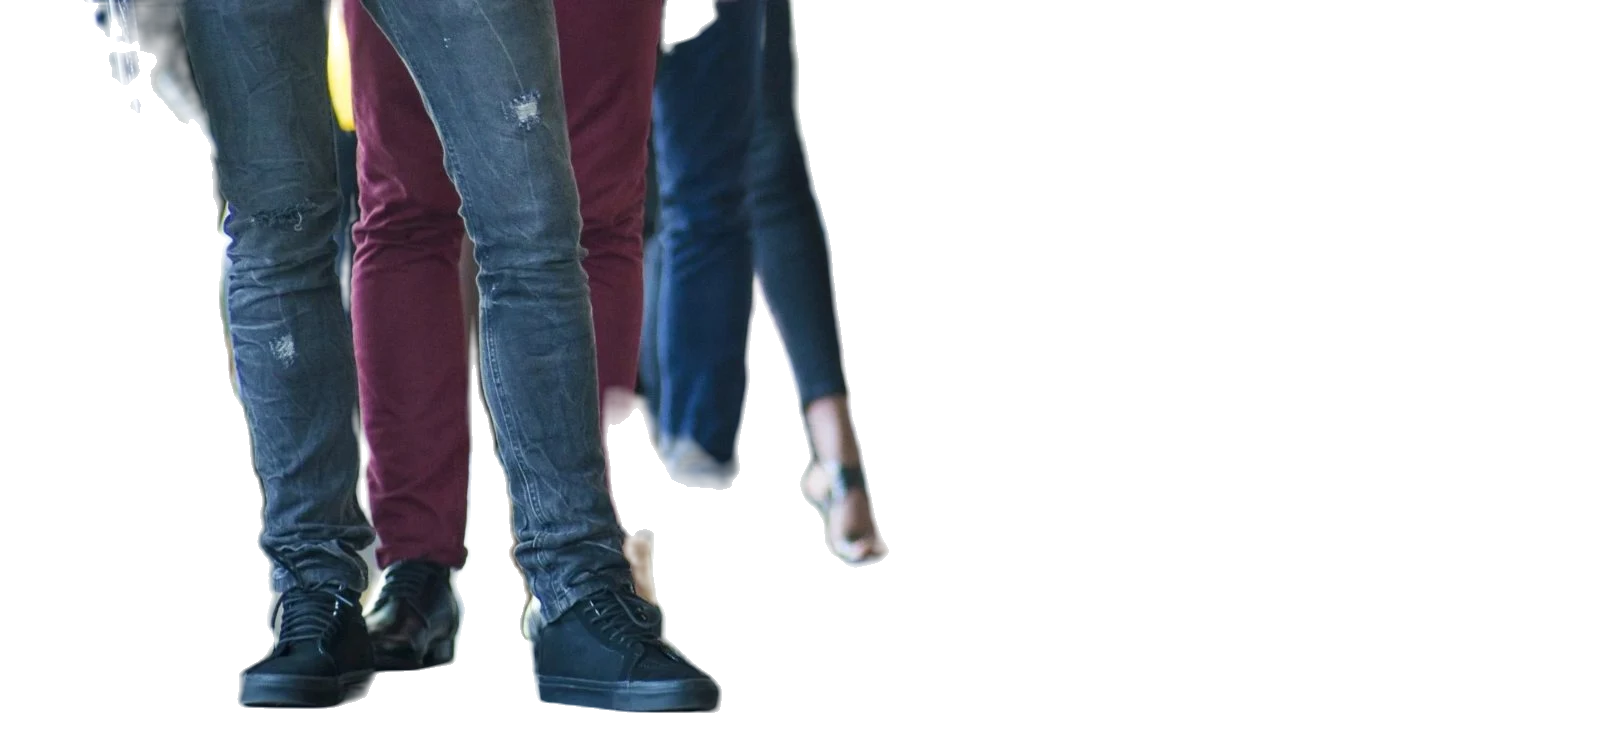
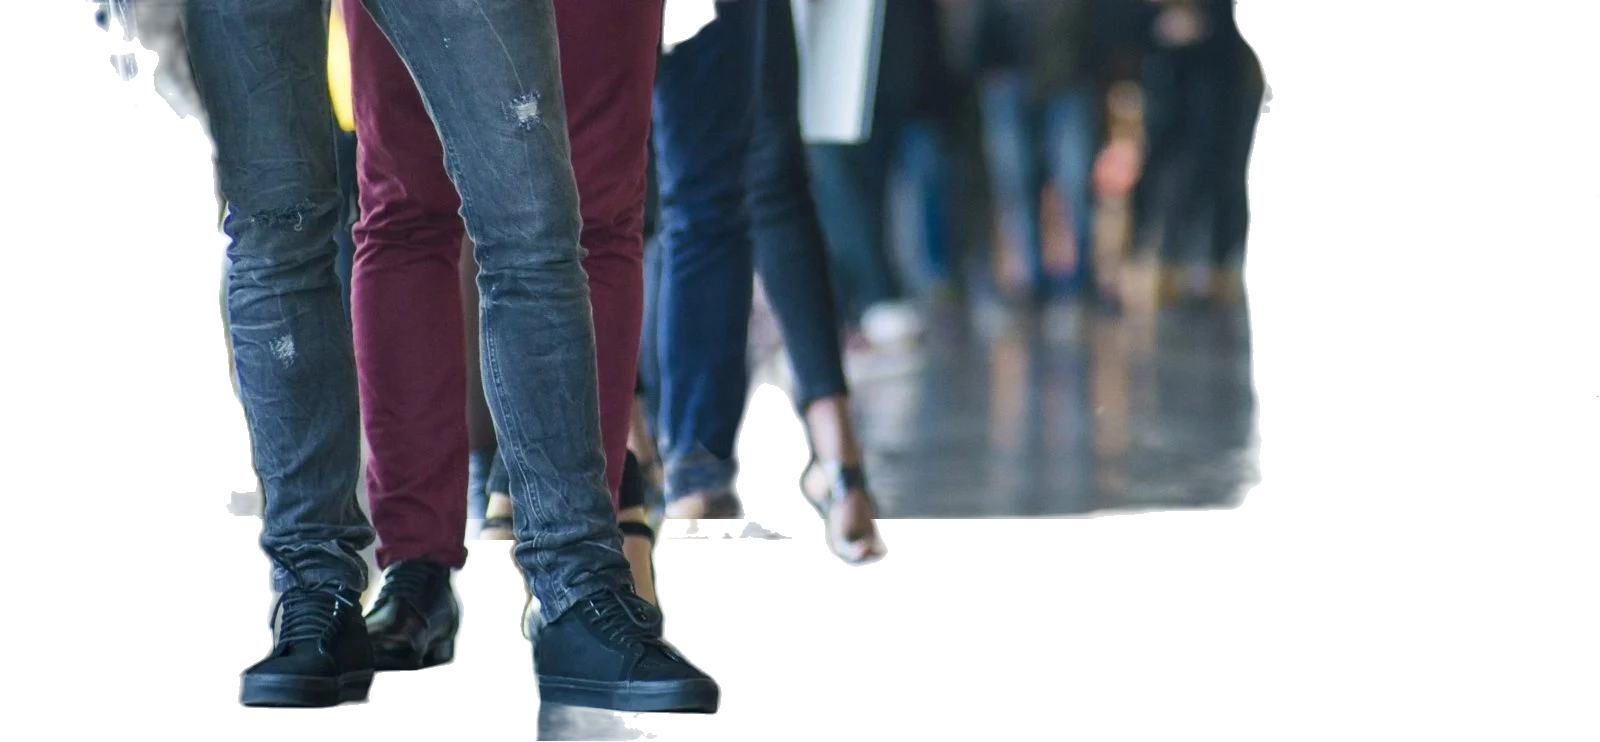
Seal: top dissolve twice as long, bottom corners show more camp photo with a long fade
Claude-Session: https://claude.ai/code/session_01MhYC1AY8xeCEEXMzs5T9VR

diff --git a/index.html b/index.html
@@ -1006,7 +1006,7 @@ button,nav,header,h1,h2,h3,h4,h5,h6,label,summary,[role="link"],[role="button"],
 <style>html body [data-ph="lot-lab"]:not(.z1):not(.z2):not(.z3):not(.z4):not(.z5):not(.z6):not(.z7):not(.z8):not(.z9):not(.z10):not(.z11):not(.z12):not(.z13):not(.z14),html body [data-m="wy-split"] > .wy-box:nth-child(3):not(.z1):not(.z2):not(.z3):not(.z4):not(.z5):not(.z6):not(.z7):not(.z8):not(.z9):not(.z10):not(.z11):not(.z12):not(.z13):not(.z14){background:linear-gradient(rgba(5,9,13,.5),rgba(5,9,13,.66)),url("assets/science-art.svg") center / cover no-repeat !important}</style>
 <style>html body [data-ph="desk-lm"]:not(.z1):not(.z2):not(.z3):not(.z4):not(.z5):not(.z6):not(.z7):not(.z8):not(.z9):not(.z10):not(.z11):not(.z12):not(.z13):not(.z14){background:linear-gradient(rgba(0,0,0,.55),rgba(0,0,0,.7)),url("assets/photo/lm-how-made-desk.jpg") center / cover no-repeat !important}[data-ph="vintage-bottles-labels"]:not(.z1):not(.z2):not(.z3):not(.z4):not(.z5):not(.z6):not(.z7):not(.z8):not(.z9):not(.z10):not(.z11):not(.z12):not(.z13):not(.z14){background:linear-gradient(rgba(0,0,0,.6),rgba(0,0,0,.72)),url("assets/photo/vintage-bottles-labels.jpg") center / cover no-repeat !important}html body [data-ph="apothecary-shop"]:not(.z1):not(.z2):not(.z3):not(.z4):not(.z5):not(.z6):not(.z7):not(.z8):not(.z9):not(.z10):not(.z11):not(.z12):not(.z13):not(.z14){background:linear-gradient(rgba(0,0,0,.6),rgba(0,0,0,.72)),url("assets/photo/apothecary-shop.jpg") center / cover no-repeat !important}html body [data-ph="herb-jars-book"]:not(.z1):not(.z2):not(.z3):not(.z4):not(.z5):not(.z6):not(.z7):not(.z8):not(.z9):not(.z10):not(.z11):not(.z12):not(.z13):not(.z14){background:linear-gradient(rgba(0,0,0,.6),rgba(0,0,0,.72)),url("assets/photo/herb-jars-book.jpg") center / cover no-repeat !important}html body [data-ph="mushroom-cabinet"]:not(.z1):not(.z2):not(.z3):not(.z4):not(.z5):not(.z6):not(.z7):not(.z8):not(.z9):not(.z10):not(.z11):not(.z12):not(.z13):not(.z14){background:linear-gradient(rgba(0,0,0,.6),rgba(0,0,0,.72)),url("assets/photo/forest-meditation-yellow.jpg") center / cover no-repeat !important}html body [data-ph="mushroom-jars-lab"]:not(.z1):not(.z2):not(.z3):not(.z4):not(.z5):not(.z6):not(.z7):not(.z8):not(.z9):not(.z10):not(.z11):not(.z12):not(.z13):not(.z14){background:linear-gradient(rgba(0,0,0,.6),rgba(0,0,0,.72)),url("assets/photo/football-team-night.jpg") center 35% / cover no-repeat !important}html body [data-ph="red-hanging-lab"]:not(.z1):not(.z2):not(.z3):not(.z4):not(.z5):not(.z6):not(.z7):not(.z8):not(.z9):not(.z10):not(.z11):not(.z12):not(.z13):not(.z14){background:linear-gradient(rgba(0,0,0,.6),rgba(0,0,0,.72)),url("assets/photo/couple-tent-pourover.jpg") center / cover no-repeat !important}html body [data-ph="lab-people"]:not(.z1):not(.z2):not(.z3):not(.z4):not(.z5):not(.z6):not(.z7):not(.z8):not(.z9):not(.z10):not(.z11):not(.z12):not(.z13):not(.z14){background:linear-gradient(rgba(0,0,0,.6),rgba(0,0,0,.72)),url("assets/photo/lab-people.jpg") center / cover no-repeat !important}html body [data-ph="reactors-lab"]:not(.z1):not(.z2):not(.z3):not(.z4):not(.z5):not(.z6):not(.z7):not(.z8):not(.z9):not(.z10):not(.z11):not(.z12):not(.z13):not(.z14){background:linear-gradient(rgba(0,0,0,.6),rgba(0,0,0,.72)),url("assets/photo/reactors-lab.jpg") center / cover no-repeat !important}html body [data-ph="tank-lab"]:not(.z1):not(.z2):not(.z3):not(.z4):not(.z5):not(.z6):not(.z7):not(.z8):not(.z9):not(.z10):not(.z11):not(.z12):not(.z13):not(.z14){background:linear-gradient(rgba(0,0,0,.6),rgba(0,0,0,.72)),url("assets/photo/tank-lab.jpg") center / cover no-repeat !important}html body [data-ph="river-trees"]:not(.z1):not(.z2):not(.z3):not(.z4):not(.z5):not(.z6):not(.z7):not(.z8):not(.z9):not(.z10):not(.z11):not(.z12):not(.z13):not(.z14){background-image:linear-gradient(rgba(0,0,0,.72),rgba(0,0,0,.8)),url("assets/photo/river-trees.jpg") !important;background-size:100% 100%,cover !important;background-position:center !important;background-repeat:no-repeat !important}html body [data-ph="river-aerial"]:not(.z1):not(.z2):not(.z3):not(.z4):not(.z5):not(.z6):not(.z7):not(.z8):not(.z9):not(.z10):not(.z11):not(.z12):not(.z13):not(.z14){background-image:linear-gradient(rgba(0,0,0,.72),rgba(0,0,0,.8)),url("assets/photo/river-aerial.jpg") !important;background-size:100% 100%,cover !important;background-position:center !important;background-repeat:no-repeat !important}html body [data-ph="bamboo-window-lab"]:not(.z1):not(.z2):not(.z3):not(.z4):not(.z5):not(.z6):not(.z7):not(.z8):not(.z9):not(.z10):not(.z11):not(.z12):not(.z13):not(.z14){background-image:linear-gradient(rgba(0,0,0,.72),rgba(0,0,0,.8)),url("assets/photo/meditation-sunset-hands.jpg") !important;background-size:100% 100%,cover !important;background-position:center !important;background-repeat:no-repeat !important}html body [data-m="why-slate"]:not(.z1):not(.z2):not(.z3):not(.z4):not(.z5):not(.z6):not(.z7):not(.z8):not(.z9):not(.z10):not(.z11):not(.z12):not(.z13):not(.z14){background-image:linear-gradient(rgba(0,0,0,.9),rgba(0,0,0,.94)) !important;background-size:100% 100% !important;background-position:center !important}html body [data-m="wy-split"] > .wy-box:nth-child(3):not(.z1):not(.z2):not(.z3):not(.z4):not(.z5):not(.z6):not(.z7):not(.z8):not(.z9):not(.z10):not(.z11):not(.z12):not(.z13):not(.z14):not(.z15){background:linear-gradient(#05090d,#0b141b) !important}</style>
 <style>@media (max-width:767px){html body [data-m="hero"] div[style*="aspect-ratio"]{position:relative;z-index:0;isolation:isolate}html body [data-m="hero"] div[style*="aspect-ratio"]::before{content:"";position:absolute;left:50%;top:50%;width:150%;height:150%;transform:translate(-50%,-50%);border-radius:50%;z-index:-1;pointer-events:none;background:radial-gradient(closest-side,rgba(0,0,0,.94) 0,rgba(0,0,0,.92) 40%,rgba(0,0,0,.86) 58%,rgba(0,0,0,.7) 67%,rgba(0,0,0,.35) 80%,rgba(0,0,0,0) 100%)}}</style>
-<style>@media (max-width:767px){html body section[data-m="hero"]:not(.z1):not(.z2):not(.z3):not(.z4):not(.z5):not(.z6):not(.z7):not(.z8):not(.z9):not(.z10):not(.z11):not(.z12):not(.z13):not(.z14){background-image:radial-gradient(circle at 50% 259px,#000 0,#000 186px,rgba(0,0,0,0) 192px),linear-gradient(rgba(0,0,0,0) 0,rgba(0,0,0,0) 120px,rgba(0,0,0,0) 400px,rgba(0,0,0,.7) 450px,#000 475px,#000 100%),radial-gradient(circle at 50% 259px,#000 0,#000 250px,rgba(0,0,0,.85) 280px,rgba(0,0,0,.6) 315px,rgba(0,0,0,.35) 350px,rgba(0,0,0,.15) 380px,rgba(0,0,0,0) 400px),url("assets/photo/hero-stove-pour-ridge-v10.jpg") !important;background-size:100% 100%,100% 100%,100% 259px,auto 550px !important;background-position:0 0,0 0,0 0,78% -75px !important;background-color:#000 !important;background-repeat:no-repeat !important}}</style>
+<style>@media (max-width:767px){html body section[data-m="hero"]:not(.z1):not(.z2):not(.z3):not(.z4):not(.z5):not(.z6):not(.z7):not(.z8):not(.z9):not(.z10):not(.z11):not(.z12):not(.z13):not(.z14){background-image:radial-gradient(circle at 50% 259px,#000 0,#000 186px,rgba(0,0,0,0) 192px),linear-gradient(rgba(0,0,0,0) 0,rgba(0,0,0,0) 120px,rgba(0,0,0,0) 420px,rgba(0,0,0,.25) 460px,rgba(0,0,0,.55) 495px,rgba(0,0,0,.85) 525px,#000 548px,#000 100%),radial-gradient(circle at 50% 259px,#000 0,#000 250px,rgba(0,0,0,.9) 290px,rgba(0,0,0,.75) 340px,rgba(0,0,0,.55) 400px,rgba(0,0,0,.35) 460px,rgba(0,0,0,.15) 510px,rgba(0,0,0,0) 550px),url("assets/photo/hero-stove-pour-ridge-v10.jpg") !important;background-size:100% 100%,100% 100%,100% 259px,auto 640px !important;background-position:0 0,0 0,0 0,78% -90px !important;background-color:#000 !important;background-repeat:no-repeat !important}}</style>
 <style>@media (max-width:767px){html body .hero-cta{display:none !important}html body .hero-panel > .hero-box:nth-child(1){order:1}html body .hero-panel > .hero-pk{order:2}html body .hero-panel > .hero-box:nth-child(2){order:3}html body .hero-pk{display:block !important;border:3px solid #D4A24A;box-sizing:border-box;margin:14px auto 0;height:260px;max-width:560px;width:100%;border-radius:18px}html body [data-m="pk-dup"]{display:none !important}html body .cta-dup{display:flex !important;margin:30px 0 8px}html body section[data-screen-label="Home — mushrooms"]{padding-top:22px !important}html body section[data-m="hero"]{padding-bottom:10px !important}}</style>
 <style>@media (max-width:767px){
 html body [data-screen-label="Shop"] [data-m="1col"]:has(> article:nth-child(8)){grid-template-columns:repeat(2,minmax(0,1fr)) !important;grid-template-rows:repeat(4,auto) !important;grid-auto-flow:column !important;gap:14px 10px !important;padding:0 8px !important}
